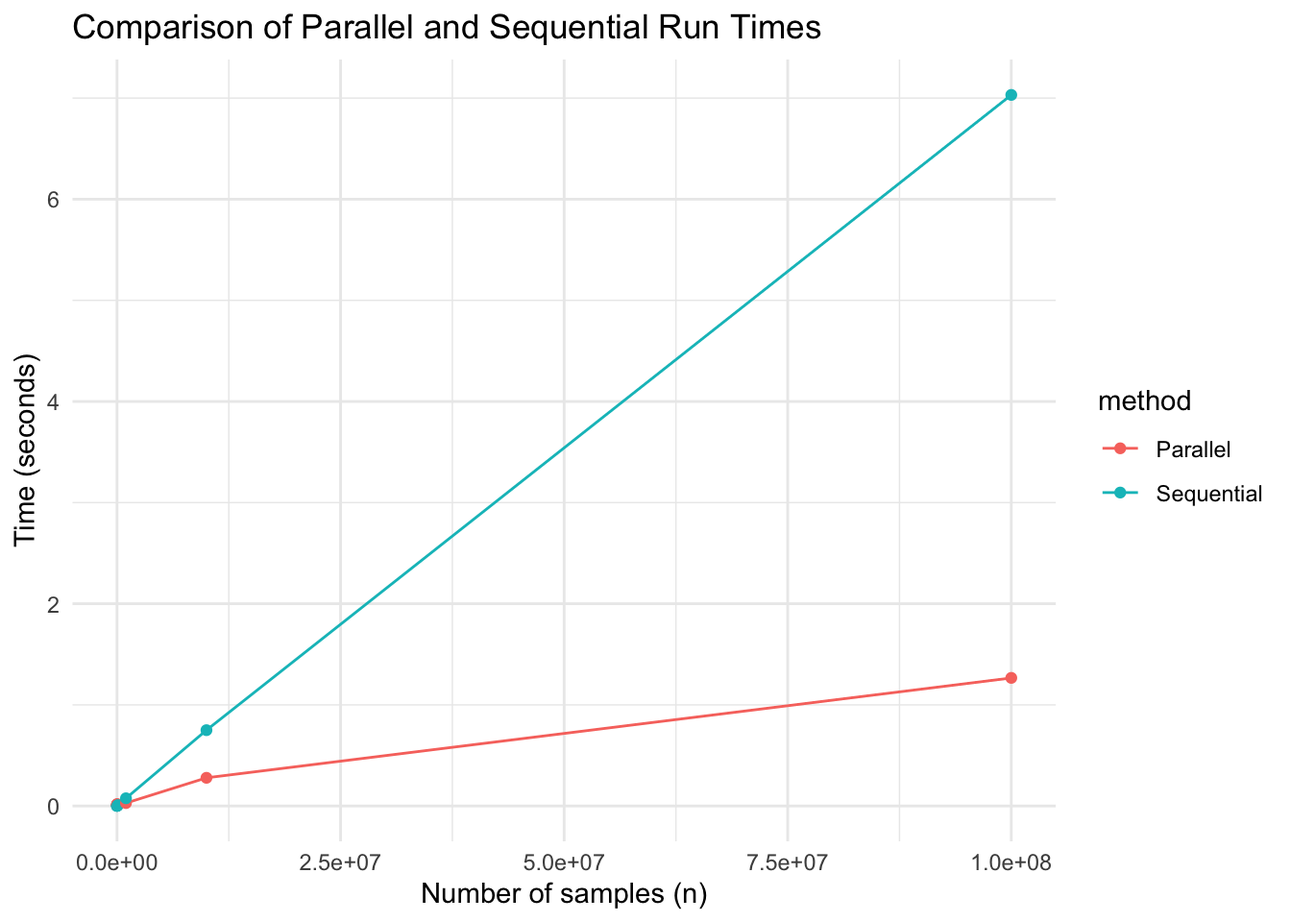
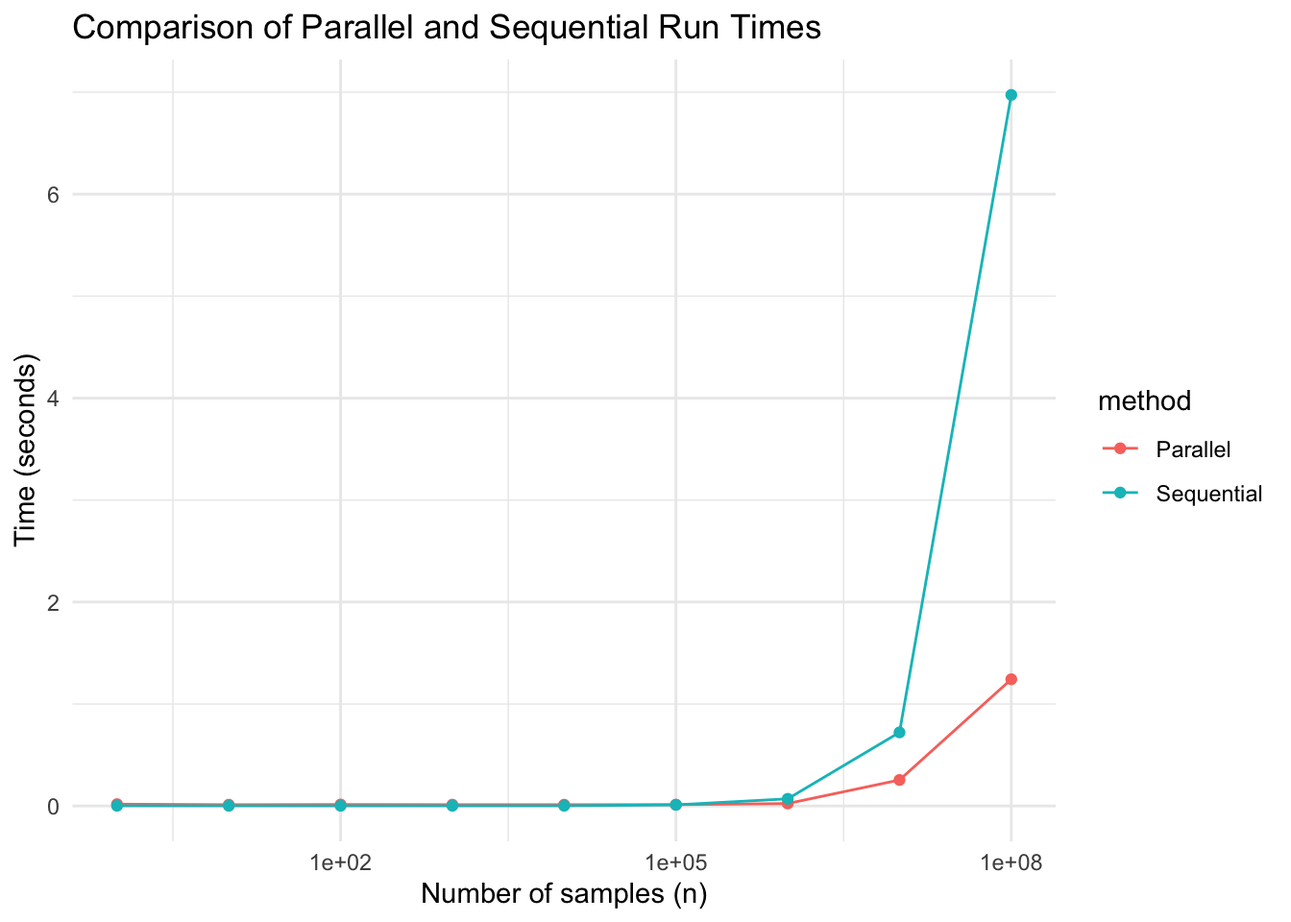
parallel run in R

diff --git a/_site/post/2024-02-16-how-to-run-for-loop-in-parallele-r/index.html b/_site/post/2024-02-16-how-to-run-for-loop-in-parallele-r/index.html
@@ -9,7 +9,7 @@
 <meta name="author" content="Haky Im">
 <meta name="dcterms.date" content="2024-02-16">
 
-<title>Hakyimlab Notes - how to run for loops in parallele in R</title>
+<title>Hakyimlab Notes - how to run for loops in parallel in R</title>
 <style>
 code{white-space: pre-wrap;}
 span.smallcaps{font-variant: small-caps;}
@@ -150,7 +150,7 @@ pre > code.sourceCode > span > a:first-child::before { text-decoration: underlin
 
 <header id="title-block-header" class="quarto-title-block default">
 <div class="quarto-title">
-<div class="quarto-title-block"><div><h1 class="title">how to run for loops in parallele in R</h1><button type="button" class="btn code-tools-button dropdown-toggle" id="quarto-code-tools-menu" data-bs-toggle="dropdown" aria-expanded="false"><i class="bi"></i> Code</button><ul class="dropdown-menu dropdown-menu-end" aria-labelelledby="quarto-code-tools-menu"><li><a id="quarto-show-all-code" class="dropdown-item" href="javascript:void(0)" role="button">Show All Code</a></li><li><a id="quarto-hide-all-code" class="dropdown-item" href="javascript:void(0)" role="button">Hide All Code</a></li><li><hr class="dropdown-divider"></li><li><a id="quarto-view-source" class="dropdown-item" href="javascript:void(0)" role="button">View Source</a></li></ul></div></div>
+<div class="quarto-title-block"><div><h1 class="title">how to run for loops in parallel in R</h1><button type="button" class="btn code-tools-button dropdown-toggle" id="quarto-code-tools-menu" data-bs-toggle="dropdown" aria-expanded="false"><i class="bi"></i> Code</button><ul class="dropdown-menu dropdown-menu-end" aria-labelelledby="quarto-code-tools-menu"><li><a id="quarto-show-all-code" class="dropdown-item" href="javascript:void(0)" role="button">Show All Code</a></li><li><a id="quarto-hide-all-code" class="dropdown-item" href="javascript:void(0)" role="button">Hide All Code</a></li><li><hr class="dropdown-divider"></li><li><a id="quarto-view-source" class="dropdown-item" href="javascript:void(0)" role="button">View Source</a></li></ul></div></div>
 </div>
 
 
@@ -226,7 +226,7 @@ pre > code.sourceCode > span > a:first-child::before { text-decoration: underlin
 <span id="cb4-33"><a href="#cb4-33" aria-hidden="true" tabindex="-1"></a><span class="co"># Plot results</span></span>
 <span id="cb4-34"><a href="#cb4-34" aria-hidden="true" tabindex="-1"></a><span class="fu">ggplot</span>(results, <span class="fu">aes</span>(<span class="at">x =</span> n, <span class="at">y =</span> time, <span class="at">color =</span> method)) <span class="sc">+</span></span>
 <span id="cb4-35"><a href="#cb4-35" aria-hidden="true" tabindex="-1"></a>  <span class="fu">geom_line</span>() <span class="sc">+</span></span>
-<span id="cb4-36"><a href="#cb4-36" aria-hidden="true" tabindex="-1"></a><span class="co">#  scale_x_log10() +</span></span>
+<span id="cb4-36"><a href="#cb4-36" aria-hidden="true" tabindex="-1"></a>  <span class="fu">scale_x_log10</span>() <span class="sc">+</span></span>
 <span id="cb4-37"><a href="#cb4-37" aria-hidden="true" tabindex="-1"></a><span class="co">#  scale_y_log10() +</span></span>
 <span id="cb4-38"><a href="#cb4-38" aria-hidden="true" tabindex="-1"></a>  <span class="fu">geom_point</span>() <span class="sc">+</span></span>
 <span id="cb4-39"><a href="#cb4-39" aria-hidden="true" tabindex="-1"></a>  <span class="fu">labs</span>(<span class="at">x =</span> <span class="st">"Number of samples (n)"</span>, <span class="at">y =</span> <span class="st">"Time (seconds)"</span>, <span class="at">title =</span> <span class="st">"Comparison of Parallel and Sequential Run Times"</span>) <span class="sc">+</span></span>
@@ -235,7 +235,24 @@ pre > code.sourceCode > span > a:first-child::before { text-decoration: underlin
 <div class="cell-output-display">
 <p><img src="index_files/figure-html/unnamed-chunk-1-1.png" class="img-fluid" width="672"></p>
 </div>
+<details>
+<summary>Code</summary>
+<div class="sourceCode cell-code" id="cb5"><pre class="sourceCode r code-with-copy"><code class="sourceCode r"><span id="cb5-1"><a href="#cb5-1" aria-hidden="true" tabindex="-1"></a><span class="co"># Plot results</span></span>
+<span id="cb5-2"><a href="#cb5-2" aria-hidden="true" tabindex="-1"></a><span class="fu">ggplot</span>(results, <span class="fu">aes</span>(<span class="at">x =</span> n, <span class="at">y =</span> time, <span class="at">color =</span> method)) <span class="sc">+</span></span>
+<span id="cb5-3"><a href="#cb5-3" aria-hidden="true" tabindex="-1"></a>  <span class="fu">geom_line</span>() <span class="sc">+</span></span>
+<span id="cb5-4"><a href="#cb5-4" aria-hidden="true" tabindex="-1"></a>  <span class="fu">scale_x_log10</span>() <span class="sc">+</span></span>
+<span id="cb5-5"><a href="#cb5-5" aria-hidden="true" tabindex="-1"></a>  <span class="fu">scale_y_log10</span>() <span class="sc">+</span></span>
+<span id="cb5-6"><a href="#cb5-6" aria-hidden="true" tabindex="-1"></a>  <span class="fu">geom_point</span>() <span class="sc">+</span></span>
+<span id="cb5-7"><a href="#cb5-7" aria-hidden="true" tabindex="-1"></a>  <span class="fu">labs</span>(<span class="at">x =</span> <span class="st">"Number of samples (n)"</span>, <span class="at">y =</span> <span class="st">"log10 Time (seconds)"</span>, <span class="at">title =</span> <span class="st">"Log Log scale Comparison of Parallel and Sequential Run Times"</span>) <span class="sc">+</span></span>
+<span id="cb5-8"><a href="#cb5-8" aria-hidden="true" tabindex="-1"></a>  <span class="fu">theme_minimal</span>()</span></code><button title="Copy to Clipboard" class="code-copy-button"><i class="bi"></i></button></pre></div>
+</details>
+<div class="cell-output-display">
+<p><img src="index_files/figure-html/unnamed-chunk-1-2.png" class="img-fluid" width="672"></p>
 </div>
+</div>
+<blockquote class="blockquote">
+<p>In this exammple, n~10e6 is the break even point, beyond which, the overhead of parallel computation is offset by the parallel computation</p>
+</blockquote>
 
 
 <!-- -->
@@ -526,59 +543,70 @@ window.document.addEventListener("DOMContentLoaded", function (event) {
   }
 });
 </script><div class="modal fade" id="quarto-embedded-source-code-modal" tabindex="-1" aria-labelledby="quarto-embedded-source-code-modal-label" aria-hidden="true"><div class="modal-dialog modal-dialog-scrollable"><div class="modal-content"><div class="modal-header"><h5 class="modal-title" id="quarto-embedded-source-code-modal-label">Source Code</h5><button class="btn-close" data-bs-dismiss="modal"></button></div><div class="modal-body"><div class="">
-<div class="sourceCode" id="cb5" data-shortcodes="false"><pre class="sourceCode markdown code-with-copy"><code class="sourceCode markdown"><span id="cb5-1"><a href="#cb5-1" aria-hidden="true" tabindex="-1"></a><span class="co">---</span></span>
-<span id="cb5-2"><a href="#cb5-2" aria-hidden="true" tabindex="-1"></a><span class="an">title:</span><span class="co"> how to run for loops in parallele in R</span></span>
-<span id="cb5-3"><a href="#cb5-3" aria-hidden="true" tabindex="-1"></a><span class="an">author:</span><span class="co"> Haky Im</span></span>
-<span id="cb5-4"><a href="#cb5-4" aria-hidden="true" tabindex="-1"></a><span class="an">date:</span><span class="co"> 2024-02-16</span></span>
-<span id="cb5-5"><a href="#cb5-5" aria-hidden="true" tabindex="-1"></a><span class="an">editor_options:</span><span class="co"> </span></span>
-<span id="cb5-6"><a href="#cb5-6" aria-hidden="true" tabindex="-1"></a><span class="co">  chunk_output_type: console</span></span>
-<span id="cb5-7"><a href="#cb5-7" aria-hidden="true" tabindex="-1"></a><span class="co">---</span></span>
-<span id="cb5-8"><a href="#cb5-8" aria-hidden="true" tabindex="-1"></a></span>
-<span id="cb5-11"><a href="#cb5-11" aria-hidden="true" tabindex="-1"></a><span class="in">```{r}</span></span>
-<span id="cb5-12"><a href="#cb5-12" aria-hidden="true" tabindex="-1"></a><span class="fu">library</span>(foreach)</span>
-<span id="cb5-13"><a href="#cb5-13" aria-hidden="true" tabindex="-1"></a><span class="fu">library</span>(doParallel)</span>
-<span id="cb5-14"><a href="#cb5-14" aria-hidden="true" tabindex="-1"></a><span class="fu">library</span>(ggplot2)</span>
-<span id="cb5-15"><a href="#cb5-15" aria-hidden="true" tabindex="-1"></a></span>
-<span id="cb5-16"><a href="#cb5-16" aria-hidden="true" tabindex="-1"></a><span class="co"># Set up parallel backend</span></span>
-<span id="cb5-17"><a href="#cb5-17" aria-hidden="true" tabindex="-1"></a>n.cores <span class="ot">&lt;-</span> <span class="fu">detectCores</span>() <span class="sc">-</span> <span class="dv">1</span></span>
-<span id="cb5-18"><a href="#cb5-18" aria-hidden="true" tabindex="-1"></a><span class="fu">registerDoParallel</span>(<span class="at">cores =</span> n.cores)</span>
-<span id="cb5-19"><a href="#cb5-19" aria-hidden="true" tabindex="-1"></a></span>
-<span id="cb5-20"><a href="#cb5-20" aria-hidden="true" tabindex="-1"></a>nsim <span class="ot">&lt;-</span> <span class="dv">9</span></span>
-<span id="cb5-21"><a href="#cb5-21" aria-hidden="true" tabindex="-1"></a>n_values <span class="ot">&lt;-</span> <span class="fu">c</span>(<span class="dv">1</span>, <span class="dv">10</span>, <span class="dv">100</span>, <span class="dv">1000</span>, <span class="dv">10000</span>, <span class="dv">100000</span>, <span class="dv">1000000</span>, <span class="dv">10000000</span>, <span class="fl">1e8</span>)</span>
-<span id="cb5-22"><a href="#cb5-22" aria-hidden="true" tabindex="-1"></a>results <span class="ot">&lt;-</span> <span class="fu">data.frame</span>(<span class="at">n =</span> <span class="fu">integer</span>(), <span class="at">method =</span> <span class="fu">character</span>(), <span class="at">time =</span> <span class="fu">numeric</span>(), <span class="at">stringsAsFactors =</span> <span class="cn">FALSE</span>)</span>
-<span id="cb5-23"><a href="#cb5-23" aria-hidden="true" tabindex="-1"></a></span>
-<span id="cb5-24"><a href="#cb5-24" aria-hidden="true" tabindex="-1"></a><span class="cf">for</span> (n <span class="cf">in</span> n_values) {</span>
-<span id="cb5-25"><a href="#cb5-25" aria-hidden="true" tabindex="-1"></a>  <span class="co"># Parallel run</span></span>
-<span id="cb5-26"><a href="#cb5-26" aria-hidden="true" tabindex="-1"></a>  tic_parallel <span class="ot">&lt;-</span> <span class="fu">Sys.time</span>()</span>
-<span id="cb5-27"><a href="#cb5-27" aria-hidden="true" tabindex="-1"></a>  <span class="fu">foreach</span>(<span class="at">i =</span> <span class="dv">1</span><span class="sc">:</span>nsim, <span class="at">.combine =</span> <span class="st">'c'</span>) <span class="sc">%dopar%</span> {</span>
-<span id="cb5-28"><a href="#cb5-28" aria-hidden="true" tabindex="-1"></a>    <span class="fu">mean</span>(<span class="fu">runif</span>(n) <span class="sc">^</span> <span class="dv">2</span>)</span>
-<span id="cb5-29"><a href="#cb5-29" aria-hidden="true" tabindex="-1"></a>  }</span>
-<span id="cb5-30"><a href="#cb5-30" aria-hidden="true" tabindex="-1"></a>  toc_parallel <span class="ot">&lt;-</span> <span class="fu">Sys.time</span>()</span>
-<span id="cb5-31"><a href="#cb5-31" aria-hidden="true" tabindex="-1"></a>  parallel_time <span class="ot">&lt;-</span> <span class="fu">as.numeric</span>(toc_parallel <span class="sc">-</span> tic_parallel, <span class="at">units =</span> <span class="st">"secs"</span>)</span>
-<span id="cb5-32"><a href="#cb5-32" aria-hidden="true" tabindex="-1"></a>  </span>
-<span id="cb5-33"><a href="#cb5-33" aria-hidden="true" tabindex="-1"></a>  <span class="co"># Sequential run</span></span>
-<span id="cb5-34"><a href="#cb5-34" aria-hidden="true" tabindex="-1"></a>  tic_sequential <span class="ot">&lt;-</span> <span class="fu">Sys.time</span>()</span>
-<span id="cb5-35"><a href="#cb5-35" aria-hidden="true" tabindex="-1"></a>  <span class="fu">foreach</span>(<span class="at">i =</span> <span class="dv">1</span><span class="sc">:</span>nsim, <span class="at">.combine =</span> <span class="st">'c'</span>) <span class="sc">%do%</span> {</span>
-<span id="cb5-36"><a href="#cb5-36" aria-hidden="true" tabindex="-1"></a>    <span class="fu">mean</span>(<span class="fu">runif</span>(n) <span class="sc">^</span> <span class="dv">2</span>)</span>
-<span id="cb5-37"><a href="#cb5-37" aria-hidden="true" tabindex="-1"></a>  }</span>
-<span id="cb5-38"><a href="#cb5-38" aria-hidden="true" tabindex="-1"></a>  toc_sequential <span class="ot">&lt;-</span> <span class="fu">Sys.time</span>()</span>
-<span id="cb5-39"><a href="#cb5-39" aria-hidden="true" tabindex="-1"></a>  sequential_time <span class="ot">&lt;-</span> <span class="fu">as.numeric</span>(toc_sequential <span class="sc">-</span> tic_sequential, <span class="at">units =</span> <span class="st">"secs"</span>)</span>
-<span id="cb5-40"><a href="#cb5-40" aria-hidden="true" tabindex="-1"></a>  </span>
-<span id="cb5-41"><a href="#cb5-41" aria-hidden="true" tabindex="-1"></a>  <span class="co"># Store results</span></span>
-<span id="cb5-42"><a href="#cb5-42" aria-hidden="true" tabindex="-1"></a>  results <span class="ot">&lt;-</span> <span class="fu">rbind</span>(results, <span class="fu">data.frame</span>(<span class="at">n =</span> n, <span class="at">method =</span> <span class="st">"Parallel"</span>, <span class="at">time =</span> parallel_time))</span>
-<span id="cb5-43"><a href="#cb5-43" aria-hidden="true" tabindex="-1"></a>  results <span class="ot">&lt;-</span> <span class="fu">rbind</span>(results, <span class="fu">data.frame</span>(<span class="at">n =</span> n, <span class="at">method =</span> <span class="st">"Sequential"</span>, <span class="at">time =</span> sequential_time))</span>
-<span id="cb5-44"><a href="#cb5-44" aria-hidden="true" tabindex="-1"></a>}</span>
-<span id="cb5-45"><a href="#cb5-45" aria-hidden="true" tabindex="-1"></a></span>
-<span id="cb5-46"><a href="#cb5-46" aria-hidden="true" tabindex="-1"></a><span class="co"># Plot results</span></span>
-<span id="cb5-47"><a href="#cb5-47" aria-hidden="true" tabindex="-1"></a><span class="fu">ggplot</span>(results, <span class="fu">aes</span>(<span class="at">x =</span> n, <span class="at">y =</span> time, <span class="at">color =</span> method)) <span class="sc">+</span></span>
-<span id="cb5-48"><a href="#cb5-48" aria-hidden="true" tabindex="-1"></a>  <span class="fu">geom_line</span>() <span class="sc">+</span></span>
-<span id="cb5-49"><a href="#cb5-49" aria-hidden="true" tabindex="-1"></a><span class="co">#  scale_x_log10() +</span></span>
-<span id="cb5-50"><a href="#cb5-50" aria-hidden="true" tabindex="-1"></a><span class="co">#  scale_y_log10() +</span></span>
-<span id="cb5-51"><a href="#cb5-51" aria-hidden="true" tabindex="-1"></a>  <span class="fu">geom_point</span>() <span class="sc">+</span></span>
-<span id="cb5-52"><a href="#cb5-52" aria-hidden="true" tabindex="-1"></a>  <span class="fu">labs</span>(<span class="at">x =</span> <span class="st">"Number of samples (n)"</span>, <span class="at">y =</span> <span class="st">"Time (seconds)"</span>, <span class="at">title =</span> <span class="st">"Comparison of Parallel and Sequential Run Times"</span>) <span class="sc">+</span></span>
-<span id="cb5-53"><a href="#cb5-53" aria-hidden="true" tabindex="-1"></a>  <span class="fu">theme_minimal</span>()</span>
-<span id="cb5-54"><a href="#cb5-54" aria-hidden="true" tabindex="-1"></a></span>
-<span id="cb5-55"><a href="#cb5-55" aria-hidden="true" tabindex="-1"></a><span class="in">```</span></span>
+<div class="sourceCode" id="cb6" data-shortcodes="false"><pre class="sourceCode markdown code-with-copy"><code class="sourceCode markdown"><span id="cb6-1"><a href="#cb6-1" aria-hidden="true" tabindex="-1"></a><span class="co">---</span></span>
+<span id="cb6-2"><a href="#cb6-2" aria-hidden="true" tabindex="-1"></a><span class="an">title:</span><span class="co"> how to run for loops in parallel in R</span></span>
+<span id="cb6-3"><a href="#cb6-3" aria-hidden="true" tabindex="-1"></a><span class="an">author:</span><span class="co"> Haky Im</span></span>
+<span id="cb6-4"><a href="#cb6-4" aria-hidden="true" tabindex="-1"></a><span class="an">date:</span><span class="co"> 2024-02-16</span></span>
+<span id="cb6-5"><a href="#cb6-5" aria-hidden="true" tabindex="-1"></a><span class="an">editor_options:</span><span class="co"> </span></span>
+<span id="cb6-6"><a href="#cb6-6" aria-hidden="true" tabindex="-1"></a><span class="co">  chunk_output_type: console</span></span>
+<span id="cb6-7"><a href="#cb6-7" aria-hidden="true" tabindex="-1"></a><span class="co">---</span></span>
+<span id="cb6-8"><a href="#cb6-8" aria-hidden="true" tabindex="-1"></a></span>
+<span id="cb6-11"><a href="#cb6-11" aria-hidden="true" tabindex="-1"></a><span class="in">```{r}</span></span>
+<span id="cb6-12"><a href="#cb6-12" aria-hidden="true" tabindex="-1"></a><span class="fu">library</span>(foreach)</span>
+<span id="cb6-13"><a href="#cb6-13" aria-hidden="true" tabindex="-1"></a><span class="fu">library</span>(doParallel)</span>
+<span id="cb6-14"><a href="#cb6-14" aria-hidden="true" tabindex="-1"></a><span class="fu">library</span>(ggplot2)</span>
+<span id="cb6-15"><a href="#cb6-15" aria-hidden="true" tabindex="-1"></a></span>
+<span id="cb6-16"><a href="#cb6-16" aria-hidden="true" tabindex="-1"></a><span class="co"># Set up parallel backend</span></span>
+<span id="cb6-17"><a href="#cb6-17" aria-hidden="true" tabindex="-1"></a>n.cores <span class="ot">&lt;-</span> <span class="fu">detectCores</span>() <span class="sc">-</span> <span class="dv">1</span></span>
+<span id="cb6-18"><a href="#cb6-18" aria-hidden="true" tabindex="-1"></a><span class="fu">registerDoParallel</span>(<span class="at">cores =</span> n.cores)</span>
+<span id="cb6-19"><a href="#cb6-19" aria-hidden="true" tabindex="-1"></a></span>
+<span id="cb6-20"><a href="#cb6-20" aria-hidden="true" tabindex="-1"></a>nsim <span class="ot">&lt;-</span> <span class="dv">9</span></span>
+<span id="cb6-21"><a href="#cb6-21" aria-hidden="true" tabindex="-1"></a>n_values <span class="ot">&lt;-</span> <span class="fu">c</span>(<span class="dv">1</span>, <span class="dv">10</span>, <span class="dv">100</span>, <span class="dv">1000</span>, <span class="dv">10000</span>, <span class="dv">100000</span>, <span class="dv">1000000</span>, <span class="dv">10000000</span>, <span class="fl">1e8</span>)</span>
+<span id="cb6-22"><a href="#cb6-22" aria-hidden="true" tabindex="-1"></a>results <span class="ot">&lt;-</span> <span class="fu">data.frame</span>(<span class="at">n =</span> <span class="fu">integer</span>(), <span class="at">method =</span> <span class="fu">character</span>(), <span class="at">time =</span> <span class="fu">numeric</span>(), <span class="at">stringsAsFactors =</span> <span class="cn">FALSE</span>)</span>
+<span id="cb6-23"><a href="#cb6-23" aria-hidden="true" tabindex="-1"></a></span>
+<span id="cb6-24"><a href="#cb6-24" aria-hidden="true" tabindex="-1"></a><span class="cf">for</span> (n <span class="cf">in</span> n_values) {</span>
+<span id="cb6-25"><a href="#cb6-25" aria-hidden="true" tabindex="-1"></a>  <span class="co"># Parallel run</span></span>
+<span id="cb6-26"><a href="#cb6-26" aria-hidden="true" tabindex="-1"></a>  tic_parallel <span class="ot">&lt;-</span> <span class="fu">Sys.time</span>()</span>
+<span id="cb6-27"><a href="#cb6-27" aria-hidden="true" tabindex="-1"></a>  <span class="fu">foreach</span>(<span class="at">i =</span> <span class="dv">1</span><span class="sc">:</span>nsim, <span class="at">.combine =</span> <span class="st">'c'</span>) <span class="sc">%dopar%</span> {</span>
+<span id="cb6-28"><a href="#cb6-28" aria-hidden="true" tabindex="-1"></a>    <span class="fu">mean</span>(<span class="fu">runif</span>(n) <span class="sc">^</span> <span class="dv">2</span>)</span>
+<span id="cb6-29"><a href="#cb6-29" aria-hidden="true" tabindex="-1"></a>  }</span>
+<span id="cb6-30"><a href="#cb6-30" aria-hidden="true" tabindex="-1"></a>  toc_parallel <span class="ot">&lt;-</span> <span class="fu">Sys.time</span>()</span>
+<span id="cb6-31"><a href="#cb6-31" aria-hidden="true" tabindex="-1"></a>  parallel_time <span class="ot">&lt;-</span> <span class="fu">as.numeric</span>(toc_parallel <span class="sc">-</span> tic_parallel, <span class="at">units =</span> <span class="st">"secs"</span>)</span>
+<span id="cb6-32"><a href="#cb6-32" aria-hidden="true" tabindex="-1"></a>  </span>
+<span id="cb6-33"><a href="#cb6-33" aria-hidden="true" tabindex="-1"></a>  <span class="co"># Sequential run</span></span>
+<span id="cb6-34"><a href="#cb6-34" aria-hidden="true" tabindex="-1"></a>  tic_sequential <span class="ot">&lt;-</span> <span class="fu">Sys.time</span>()</span>
+<span id="cb6-35"><a href="#cb6-35" aria-hidden="true" tabindex="-1"></a>  <span class="fu">foreach</span>(<span class="at">i =</span> <span class="dv">1</span><span class="sc">:</span>nsim, <span class="at">.combine =</span> <span class="st">'c'</span>) <span class="sc">%do%</span> {</span>
+<span id="cb6-36"><a href="#cb6-36" aria-hidden="true" tabindex="-1"></a>    <span class="fu">mean</span>(<span class="fu">runif</span>(n) <span class="sc">^</span> <span class="dv">2</span>)</span>
+<span id="cb6-37"><a href="#cb6-37" aria-hidden="true" tabindex="-1"></a>  }</span>
+<span id="cb6-38"><a href="#cb6-38" aria-hidden="true" tabindex="-1"></a>  toc_sequential <span class="ot">&lt;-</span> <span class="fu">Sys.time</span>()</span>
+<span id="cb6-39"><a href="#cb6-39" aria-hidden="true" tabindex="-1"></a>  sequential_time <span class="ot">&lt;-</span> <span class="fu">as.numeric</span>(toc_sequential <span class="sc">-</span> tic_sequential, <span class="at">units =</span> <span class="st">"secs"</span>)</span>
+<span id="cb6-40"><a href="#cb6-40" aria-hidden="true" tabindex="-1"></a>  </span>
+<span id="cb6-41"><a href="#cb6-41" aria-hidden="true" tabindex="-1"></a>  <span class="co"># Store results</span></span>
+<span id="cb6-42"><a href="#cb6-42" aria-hidden="true" tabindex="-1"></a>  results <span class="ot">&lt;-</span> <span class="fu">rbind</span>(results, <span class="fu">data.frame</span>(<span class="at">n =</span> n, <span class="at">method =</span> <span class="st">"Parallel"</span>, <span class="at">time =</span> parallel_time))</span>
+<span id="cb6-43"><a href="#cb6-43" aria-hidden="true" tabindex="-1"></a>  results <span class="ot">&lt;-</span> <span class="fu">rbind</span>(results, <span class="fu">data.frame</span>(<span class="at">n =</span> n, <span class="at">method =</span> <span class="st">"Sequential"</span>, <span class="at">time =</span> sequential_time))</span>
+<span id="cb6-44"><a href="#cb6-44" aria-hidden="true" tabindex="-1"></a>}</span>
+<span id="cb6-45"><a href="#cb6-45" aria-hidden="true" tabindex="-1"></a></span>
+<span id="cb6-46"><a href="#cb6-46" aria-hidden="true" tabindex="-1"></a><span class="co"># Plot results</span></span>
+<span id="cb6-47"><a href="#cb6-47" aria-hidden="true" tabindex="-1"></a><span class="fu">ggplot</span>(results, <span class="fu">aes</span>(<span class="at">x =</span> n, <span class="at">y =</span> time, <span class="at">color =</span> method)) <span class="sc">+</span></span>
+<span id="cb6-48"><a href="#cb6-48" aria-hidden="true" tabindex="-1"></a>  <span class="fu">geom_line</span>() <span class="sc">+</span></span>
+<span id="cb6-49"><a href="#cb6-49" aria-hidden="true" tabindex="-1"></a>  <span class="fu">scale_x_log10</span>() <span class="sc">+</span></span>
+<span id="cb6-50"><a href="#cb6-50" aria-hidden="true" tabindex="-1"></a><span class="co">#  scale_y_log10() +</span></span>
+<span id="cb6-51"><a href="#cb6-51" aria-hidden="true" tabindex="-1"></a>  <span class="fu">geom_point</span>() <span class="sc">+</span></span>
+<span id="cb6-52"><a href="#cb6-52" aria-hidden="true" tabindex="-1"></a>  <span class="fu">labs</span>(<span class="at">x =</span> <span class="st">"Number of samples (n)"</span>, <span class="at">y =</span> <span class="st">"Time (seconds)"</span>, <span class="at">title =</span> <span class="st">"Comparison of Parallel and Sequential Run Times"</span>) <span class="sc">+</span></span>
+<span id="cb6-53"><a href="#cb6-53" aria-hidden="true" tabindex="-1"></a>  <span class="fu">theme_minimal</span>()</span>
+<span id="cb6-54"><a href="#cb6-54" aria-hidden="true" tabindex="-1"></a></span>
+<span id="cb6-55"><a href="#cb6-55" aria-hidden="true" tabindex="-1"></a><span class="co"># Plot results</span></span>
+<span id="cb6-56"><a href="#cb6-56" aria-hidden="true" tabindex="-1"></a><span class="fu">ggplot</span>(results, <span class="fu">aes</span>(<span class="at">x =</span> n, <span class="at">y =</span> time, <span class="at">color =</span> method)) <span class="sc">+</span></span>
+<span id="cb6-57"><a href="#cb6-57" aria-hidden="true" tabindex="-1"></a>  <span class="fu">geom_line</span>() <span class="sc">+</span></span>
+<span id="cb6-58"><a href="#cb6-58" aria-hidden="true" tabindex="-1"></a>  <span class="fu">scale_x_log10</span>() <span class="sc">+</span></span>
+<span id="cb6-59"><a href="#cb6-59" aria-hidden="true" tabindex="-1"></a>  <span class="fu">scale_y_log10</span>() <span class="sc">+</span></span>
+<span id="cb6-60"><a href="#cb6-60" aria-hidden="true" tabindex="-1"></a>  <span class="fu">geom_point</span>() <span class="sc">+</span></span>
+<span id="cb6-61"><a href="#cb6-61" aria-hidden="true" tabindex="-1"></a>  <span class="fu">labs</span>(<span class="at">x =</span> <span class="st">"Number of samples (n)"</span>, <span class="at">y =</span> <span class="st">"log10 Time (seconds)"</span>, <span class="at">title =</span> <span class="st">"Log Log scale Comparison of Parallel and Sequential Run Times"</span>) <span class="sc">+</span></span>
+<span id="cb6-62"><a href="#cb6-62" aria-hidden="true" tabindex="-1"></a>  <span class="fu">theme_minimal</span>()</span>
+<span id="cb6-63"><a href="#cb6-63" aria-hidden="true" tabindex="-1"></a></span>
+<span id="cb6-64"><a href="#cb6-64" aria-hidden="true" tabindex="-1"></a><span class="in">```</span></span>
+<span id="cb6-65"><a href="#cb6-65" aria-hidden="true" tabindex="-1"></a></span>
+<span id="cb6-66"><a href="#cb6-66" aria-hidden="true" tabindex="-1"></a><span class="at">&gt; In this exammple, n~10e6 is the break even point, beyond which, the overhead of parallel computation is offset by the parallel computation</span></span>
 </code><button title="Copy to Clipboard" class="code-copy-button"><i class="bi"></i></button></pre></div>
 </div></div></div></div></div>
 </div> <!-- /content -->

diff --git a/_site/index.html b/_site/index.html
@@ -170,20 +170,20 @@ ul.task-list li input[type="checkbox"] {
 
 <div class="quarto-listing quarto-listing-container-default" id="listing-listing">
 <div class="list quarto-listing-default">
-<div class="quarto-post image-right" data-index="0" data-listing-date-sort="1708063200000" data-listing-file-modified-sort="1708120725062" data-listing-date-modified-sort="NaN" data-listing-reading-time-sort="1">
+<div class="quarto-post image-right" data-index="0" data-listing-date-sort="1708063200000" data-listing-file-modified-sort="1708121879920" data-listing-date-modified-sort="NaN" data-listing-reading-time-sort="2">
 <div class="thumbnail">
 <p><a href="./post/2024-02-16-how-to-run-for-loop-in-parallele-r/index.html"> <p class="card-img-top"><img src="post/2024-02-16-how-to-run-for-loop-in-parallele-r/index_files/figure-html/unnamed-chunk-1-1.png"  class="thumbnail-image card-img"/></p> </a></p>
 </div>
 <div class="body">
 <a href="./post/2024-02-16-how-to-run-for-loop-in-parallele-r/index.html">
 <h3 class="no-anchor listing-title">
-how to run for loops in parallele in R
+how to run for loops in parallel in R
 </h3>
 <div class="listing-subtitle">
 
 </div>
 <div class="listing-description">
-
+In this exammple, n~10e6 is the break even point, beyond which, the overhead of parallel computation is offset by the parallel computation
 </div>
 </a>
 </div>
